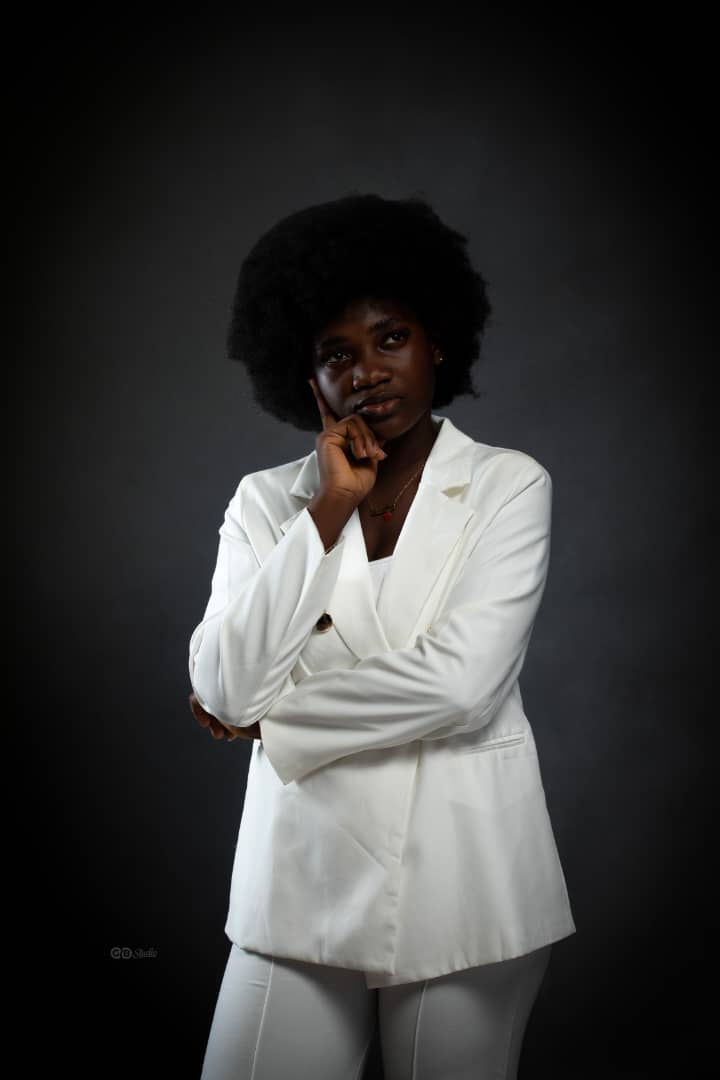
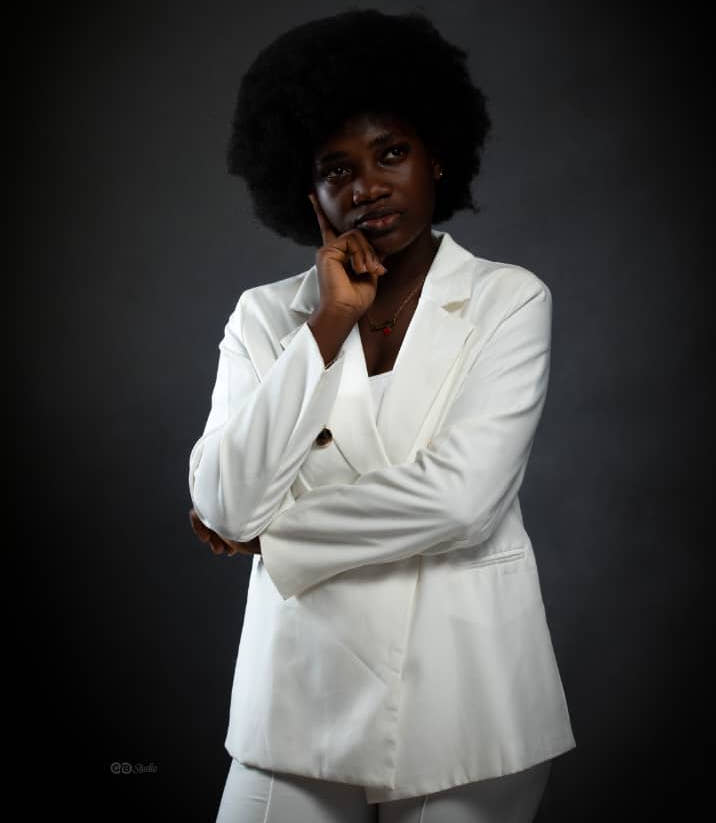
Hebergement V1

diff --git a/src/components/HeroCarousel.jsx b/src/components/HeroCarousel.jsx
@@ -9,12 +9,23 @@ import { useLanguage } from "@/context/LanguageContext";
 
 const bgImages = [
   { src: "/images/kanem_hero_bg.png",                                                    caption: "Pôle R&D & Laboratoires d'Innovation" },
+  { src: "/images/1.jpeg",                                                              caption: "Campus & Ancrage Institutionnel" },
+  { src: "/images/42.jpeg",                      caption: "Technologies Émergentes & Souveraineté" },
+  { src: "/images/47.jpeg",                caption: "Recherche Scientifique Appliquée" },
+  { src: "/images/logo fond-noir2.jpeg",                caption: "Jeunesse & Programme RAIDE-RACE" },
+  { collage: true,                                                                        caption: "Galerie KANEM-SA — Tous nos domaines d'excellence" }
+];
+
+/*
+const bgImages = [
+  { src: "/images/kanem_hero_bg.png",                                                    caption: "Pôle R&D & Laboratoires d'Innovation" },
   { src: "/images/home.png",                                                              caption: "Campus & Ancrage Institutionnel" },
   { src: "/images/attirance/pexels-mediahooch-14785826.jpg",                      caption: "Technologies Émergentes & Souveraineté" },
   { src: "/images/attirance/pexels-shvets-production-7562020.jpg",                caption: "Recherche Scientifique Appliquée" },
   { src: "/images/attirance/pexels-shvets-production-7562259.jpg",                caption: "Jeunesse & Programme RAIDE-RACE" },
   { collage: true,                                                                        caption: "Galerie KANEM-SA — Tous nos domaines d'excellence" }
 ];
+*/
 
 const collageImages = [
   "/images/kanem_hero_bg.png",

diff --git a/src/components/LoadingScreen.jsx b/src/components/LoadingScreen.jsx
@@ -42,7 +42,7 @@ export default function LoadingScreen() {
         >
           {/* Left Curtain Panel — Slides Left on Exit */}
           <motion.div
-            className="absolute top-0 left-0 w-1/2 h-full bg-[#0A0A0A] border-r border-zinc-900/80 z-10 shadow-2xl"
+            className="absolute top-0 left-0 w-1/2 h-full bg-[#0A0A0A] z-10 shadow-2xl"
             initial={{ x: "0%" }}
             exit={{ x: "-100%" }}
             transition={{ duration: 1.2, ease: [0.77, 0, 0.175, 1] }}
@@ -50,7 +50,7 @@ export default function LoadingScreen() {
 
           {/* Right Curtain Panel — Slides Right on Exit */}
           <motion.div
-            className="absolute top-0 right-0 w-1/2 h-full bg-[#0A0A0A] border-l border-zinc-900/80 z-10 shadow-2xl"
+            className="absolute top-0 right-0 w-1/2 h-full bg-[#0A0A0A] z-10 shadow-2xl"
             initial={{ x: "0%" }}
             exit={{ x: "100%" }}
             transition={{ duration: 1.2, ease: [0.77, 0, 0.175, 1] }}
